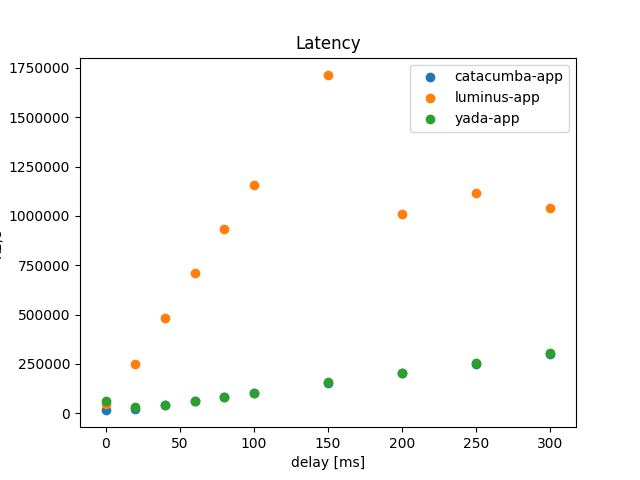
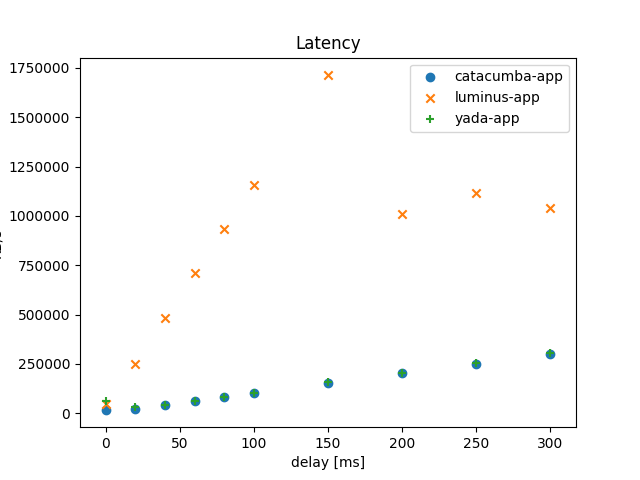
change markers in plots

diff --git a/generate_plots.py b/generate_plots.py
@@ -1,5 +1,6 @@
 #!/usr/bin/env python
 import csv
+from itertools import cycle
 import matplotlib.pyplot as plt
 
 
@@ -27,10 +28,11 @@ def load(p):
 
 
 def plot(data, ax, y_index, x_index=0):
+    markers = cycle(['o', 'x', '+', '*'])
     for label, rows in data.items():
         x = [i[x_index] for i in rows]
         y = [i[y_index] for i in rows]
-        ax.scatter(x, y, label=label)
+        ax.scatter(x, y, label=label, marker=next(markers))
 
 
 def plots(plots_desc, data):
